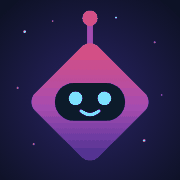
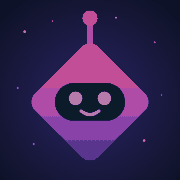
Tým: založení s kódem, připojení se souhlasem, přehled postupu členů
- Stránka Tým (v menu Opora a karta na úvodu). Kdo tým založí, dostane
  šestiznakový kód a pošle ho kolegům; kdo se připojí, souhlasí se
  sdílením souhrnu: role, hodnost, XP, postup, kde je, série, poslední
  aktivita. Odpovědi, kliknutí ani zpětná vazba se nesdílejí.
- Přehled: počet lidí, průměrný postup, kolik dokončilo, aktivní za
  7 dní, upozornění na lidi bez aktivity přes 3 dny, tabulka členů.
- Zakladatel může člena odebrat nebo tým zrušit, člen může tým opustit.
- Souhrn se aktualizuje s ukládáním pokroku. Databáze tymy/<zakladatel>
  a clenove/<člověk>; jména se neukládají, berou se z profilu.
- Ikona 180 px zmenšená (paleta 40 barev), aby stránka zůstala
  v rozpočtu 700 kB.
- Testy: scénář týmu (17 kontrol), audit přístupnosti stránky Tým.
- TODO: na vlastním serveru omezit čtení souhrnů jen na členy týmu.

Claude-Session: https://claude.ai/code/session_011w8DYAdrGVi6rSn6aB8qZr

diff --git a/web/track.js b/web/track.js
@@ -138,6 +138,7 @@ async function tInitRun(){
     T.perf.size = document.documentElement.outerHTML.length;
   } catch (e) {}
   TRK.doc = T; TRK.ok = true; TRK.dirty = true;
+  tmLoad();
   trk('návštěva', T.dev.mobile ? 'mobil' : 'počítač');
   trackView(); await tFlush();
   if (!TRK.timer) TRK.timer = setInterval(tFlush, 20000);
@@ -850,6 +851,7 @@ async function pPush(){
   try { await PROG.ref.set({v:1, at:Date.now(), state:JSON.parse(JSON.stringify(S))}); }
   catch (e) { if (e && (e.code === 'revoked' || e.code === 'invalid_argument' || e.code === 'not_granted')) PROG.ref = null; else PROG.h = setTimeout(pPush, 15000); }
   PROG.busy = false;
+  try { tmPush(); } catch (e) {}
 }
 document.addEventListener('visibilitychange', () => { if (document.hidden && PROG.h) pPush(); });
 
@@ -897,3 +899,115 @@ async function netBack(){
 window.addEventListener('offline', () => { NET.lost = true; netPill(); try { trk('připojení', 'offline'); } catch (e) {} toast('Jste offline. Můžete pokračovat, pokrok se ukládá v zařízení.'); });
 window.addEventListener('online', () => { netBack(); });
 setTimeout(netPill, 0);
+
+/* ---------- tým: společné učení a přehled o postupu kolegů ----------
+   Kdo tým založí, dostane kód a pošle ho kolegům (třeba v Teams). Kdo se kódem připojí, souhlasí, že členové týmu
+   uvidí jeho souhrn: roli, hodnost, XP, postup, kde je a kdy byl naposledy aktivní. Nic dalšího (odpovědi, kliknutí) se nesdílí.
+   Databáze: tymy/<zakladatel> {name, code, removed[]} a clenove/<člověk> {team, souhrn}. Zakladatel může člena odebrat
+   (zapíše ho do removed) nebo tým zrušit; každý může tým kdykoli opustit. Jména se neukládají, zobrazují se z profilu. */
+const TEAM = {ready:false, my:null, team:null, members:[], names:{}, err:'', busy:false, kicked:false, draft:{}};
+const tmCode = () => { const A = 'ABCDEFGHJKLMNPQRSTUVWXYZ23456789'; const r = crypto.getRandomValues(new Uint8Array(6)); return Array.from(r, x => A[x % A.length]).join(''); };
+function tmSummary(){ const r = rank(), n = nextOnPath(); return {role:S.role || null, xp:S.xp || 0, rank:r.name, lvl:r.lvl, pct:overall(), mod:n ? n.id : null, streak:streak(), last:Date.now(), express:!!S.express, done:pathDone()}; }
+async function tmLoad(){
+  if (!TRK.db || !TRK.uid) return; TEAM.fresh = Date.now();
+  try {
+    const s = await TRK.db.doc('clenove/' + TRK.uid).get(); TEAM.my = s.exists ? JSON.parse(JSON.stringify(s.data())) : null; TEAM.team = null; TEAM.members = []; TEAM.kicked = false;
+    if (TEAM.my && TEAM.my.team) {
+      const t = await TRK.db.doc('tymy/' + TEAM.my.team).get();
+      const tm = t.exists ? Object.assign({id:TEAM.my.team}, t.data()) : null;
+      if (!tm || (tm.removed || []).includes(TRK.uid)) { TEAM.kicked = tm ? 'odebrán' : 'zrušen'; TEAM.my.team = null; await TRK.db.doc('clenove/' + TRK.uid).set(TEAM.my); }
+      else { TEAM.team = tm; await tmMembers(); }
+    }
+    TEAM.err = '';
+  } catch (e) { TEAM.err = navigator.onLine ? 'Tým se nepodařilo načíst. Zkuste to za chvíli.' : 'Jste offline. Tým se načte po připojení.'; }
+  TEAM.ready = true; if (view.name === 'tym' || view.name === 'home') render();
+}
+async function tmMembers(){
+  const q = await TRK.db.collection('clenove').where('team', '==', TEAM.team.id).get(), rm = TEAM.team.removed || [];
+  TEAM.members = q.docs.map(d => Object.assign({id:d.id}, d.data())).filter(m => !rm.includes(m.id));
+  try { const ps = await TRK.user.profiles(TEAM.members.map(m => m.id)); TEAM.names = {}; Object.keys(ps || {}).forEach(k => { TEAM.names[k] = (ps[k] && ps[k].name) || ''; }); } catch (e) {}
+}
+async function tmPush(){
+  if (!TEAM.my || !TEAM.my.team || !TRK.db || !TRK.uid) return;
+  try { TEAM.my = Object.assign(TEAM.my, tmSummary()); await TRK.db.doc('clenove/' + TRK.uid).set(JSON.parse(JSON.stringify(TEAM.my))); } catch (e) {}
+}
+async function tmAct(a, arg){
+  if (TEAM.busy || !TRK.db || !TRK.uid) return; TEAM.busy = true; TEAM.err = '';
+  const fail = m => { const x = new Error(m); x.v = true; throw x; };
+  try {
+    if (a === 'create') {
+      const name = String(arg || '').trim().slice(0, 60); if (!name) fail('Napište název týmu.');
+      const team = {name, code:tmCode(), removed:[], at:Date.now()};
+      await TRK.db.doc('tymy/' + TRK.uid).set(team);
+      TEAM.my = Object.assign({}, tmSummary(), {team:TRK.uid}); await TRK.db.doc('clenove/' + TRK.uid).set(TEAM.my);
+      try { trk('tým', 'založen'); } catch (e) {}
+    } else if (a === 'join') {
+      const code = String(arg || '').trim().toUpperCase().replace(/[^A-Z0-9]/g, '');
+      if (code.length !== 6) fail('Kód týmu má 6 znaků.');
+      const q = await TRK.db.collection('tymy').where('code', '==', code).limit(1).get();
+      if (!q.docs.length) fail('Tým s tímhle kódem neexistuje. Zkontrolujte ho u kolegy, který tým založil.');
+      const d = q.docs[0];
+      if ((d.data().removed || []).includes(TRK.uid)) fail('Z tohoto týmu vás zakladatel odebral.');
+      TEAM.my = Object.assign({}, tmSummary(), {team:d.id}); await TRK.db.doc('clenove/' + TRK.uid).set(TEAM.my);
+      try { trk('tým', 'připojen'); } catch (e) {}
+    } else if (a === 'leave' || a === 'dissolve') {
+      if (a === 'dissolve' && TEAM.team && TEAM.team.id === TRK.uid) await TRK.db.doc('tymy/' + TRK.uid).delete();
+      TEAM.my = Object.assign({}, TEAM.my || {}, {team:null}); await TRK.db.doc('clenove/' + TRK.uid).set(TEAM.my);
+      try { trk('tým', a === 'leave' ? 'opuštěn' : 'zrušen'); } catch (e) {}
+    } else if (a === 'remove' && TEAM.team && TEAM.team.id === TRK.uid && arg && arg !== TRK.uid) {
+      const removed = Array.from(new Set((TEAM.team.removed || []).concat([arg])));
+      await TRK.db.doc('tymy/' + TRK.uid).update({removed});
+    }
+  } catch (e) {
+    TEAM.busy = false;
+    if (e && e.v) { TEAM.err = e.message; renderTeam(); return; }
+    TEAM.err = navigator.onLine ? 'Nepodařilo se to uložit. Zkuste to znovu.' : 'Jste offline. Tým jde upravit po připojení.';
+  }
+  TEAM.busy = false;
+  const err = TEAM.err; await tmLoad(); if (err) { TEAM.err = err; if (view.name === 'tym') renderTeam(); }
+}
+const tmAgo = t => { if (!t) return '—'; const d = Math.floor((Date.now() - t) / 864e5); return d <= 0 ? 'dnes' : d === 1 ? 'včera' : 'před ' + d + ' dny'; };
+function teamCard(){
+  if (!S.role || !TRK.ok) return '';
+  if (TEAM.team) { const m = TEAM.members, avg = m.length ? Math.round(m.reduce((n, x) => n + (x.pct || 0), 0) / m.length) : 0;
+    return `<section class="tmc"><div><span class="eyebrow">Váš tým</span><h3>${esc(TEAM.team.name)}</h3><p class="muted">${m.length} ${m.length === 1 ? 'člověk' : m.length < 5 ? 'lidé' : 'lidí'} · průměrně ${avg} % cesty</p></div><button class="btn" type="button" data-go="tym">Otevřít tým →</button></section>`; }
+  return `<section class="tmc"><div><span class="eyebrow">Učte se s týmem</span><h3>Vidíte, kde jsou kolegové</h3><p class="muted">Založte tým nebo se připojte kódem od kolegy.</p></div><button class="btn" type="button" data-go="tym">Tým →</button></section>`;
+}
+function renderTeam(){
+  const lead = TEAM.team && TEAM.team.id === TRK.uid, W2 = id => { const w = W.find(x => x.id === id); return w ? (w.role ? w.title : w.lab + ' · ' + w.title) : 'Hotovo'; };
+  let body;
+  if (!TRK.ok || !TEAM.ready) body = `<p class="tm-note">${TRK.ok ? 'Načítám tým…' : 'Tým funguje, když jste přihlášení a online. Pokrok se mezitím ukládá v zařízení.'}</p>`;
+  else if (!TEAM.team) body = `${TEAM.kicked ? `<p class="tm-note">Tým, ve kterém jste byli, ${TEAM.kicked === 'zrušen' ? 'jeho zakladatel zrušil' : 'vás odebral'}. Můžete založit nový nebo se připojit k jinému.</p>` : ''}
+    <div class="tm-two">
+      <form class="tm-box" data-tmform="create"><h2>Založit tým</h2><p class="muted">Dostanete kód, který pošlete kolegům.</p><label for="tm-name">Název týmu</label><input id="tm-name" maxlength="60" placeholder="Např. Tribe Platby" autocomplete="off" value="${esc(TEAM.draft.name || '')}"><button class="btn primary" type="submit">Založit tým</button></form>
+      <form class="tm-box" data-tmform="join"><h2>Připojit se kódem</h2><p class="muted">Kód vám pošle kolega, který tým založil.</p><label for="tm-code">Kód týmu</label><input id="tm-code" maxlength="8" placeholder="Např. K7M2QX" autocomplete="off" autocapitalize="characters" value="${esc(TEAM.draft.code || '')}"><label class="tm-ok"><input type="checkbox" id="tm-agree"> Souhlasím, že členové týmu uvidí můj souhrn: roli, hodnost, XP, postup cestou a kdy jsem byl(a) naposledy aktivní.</label><button class="btn primary" type="submit">Připojit se</button></form>
+    </div>`;
+  else { const m = TEAM.members.slice().sort((a, b) => (b.pct || 0) - (a.pct || 0) || (b.xp || 0) - (a.xp || 0)), now = Date.now();
+    const avg = m.length ? Math.round(m.reduce((n, x) => n + (x.pct || 0), 0) / m.length) : 0, done = m.filter(x => x.done).length, act = m.filter(x => now - (x.last || 0) < 7 * 864e5).length, stuck = m.filter(x => !x.done && now - (x.last || 0) > 3 * 864e5);
+    body = `<div class="tm-head"><div><span class="eyebrow">${lead ? 'Zakládali jste' : 'Jste členem'}</span><h2>${esc(TEAM.team.name)}</h2></div>${lead ? `<div class="tm-code"><span>Kód pro kolegy</span><b id="tm-code-v">${esc(TEAM.team.code)}</b><button class="btn sm" type="button" data-tm="copy">Zkopírovat</button></div>` : ''}</div>
+    ${lead ? '<p class="muted">Pošlete kód kolegům, třeba v Teams. V aplikaci ho zadají na stránce Tým.</p>' : ''}
+    <div class="tm-kpi"><div><b>${m.length}</b><span>${m.length === 1 ? 'člověk' : m.length < 5 ? 'lidé' : 'lidí'} v týmu</span></div><div><b>${avg} %</b><span>průměrný postup</span></div><div><b>${done}</b><span>dokončilo cestu</span></div><div><b>${act}</b><span>aktivních za 7 dní</span></div></div>
+    ${stuck.length ? `<p class="tm-stuck"><b>Bez aktivity přes 3 dny:</b> ${stuck.map(x => esc(x.id === TRK.uid ? 'vy' : TEAM.names[x.id] || 'kolega')).join(', ')}. Možná se zasekli, zkuste se jich zeptat.</p>` : ''}
+    <div class="tw" tabindex="0" role="region" aria-label="Postup členů týmu"><table class="tm-t"><thead><tr><th>Člověk</th><th>Role</th><th>Hodnost</th><th>Postup</th><th>Právě</th><th>Série</th><th>Naposledy</th>${lead ? '<th></th>' : ''}</tr></thead><tbody>
+    ${m.map(x => `<tr class="${x.id === TRK.uid ? 'me' : ''}"><td><b>${esc(x.id === TRK.uid ? 'Vy' : TEAM.names[x.id] || 'Kolega')}</b>${x.id === TEAM.team.id ? ' <small class="muted">zakladatel</small>' : ''}</td><td>${esc(x.role ? ROLE_SHORT[x.role] || x.role : '—')}</td><td>${esc(x.rank || '—')} <small class="muted">${x.xp || 0} XP</small></td><td><span class="tm-bar"><span class="bar"><i style="width:${x.pct || 0}%"></i></span><span class="num">${x.pct || 0} %</span></span></td><td>${x.done ? '✓ Hotovo' : esc(W2(x.mod))}${x.express ? ' <small class="muted">expres</small>' : ''}</td><td>${x.streak ? '🔥 ' + x.streak : '—'}</td><td>${tmAgo(x.last)}</td>${lead ? `<td>${x.id !== TRK.uid ? `<button class="linkbtn" type="button" data-tm="remove:${esc(x.id)}">Odebrat</button>` : ''}</td>` : ''}</tr>`).join('')}
+    </tbody></table></div>
+    <div class="tm-foot"><button class="btn" type="button" data-tm="reload">Obnovit</button>${lead ? '<button class="btn" type="button" data-tm="dissolve">Zrušit tým</button>' : '<button class="btn" type="button" data-tm="leave">Opustit tým</button>'}</div>
+    <p class="muted tm-priv">Členové vidí jen tenhle souhrn. Odpovědi, kliknutí ani zpětná vazba se nesdílejí.</p>`; }
+  app.innerHTML = shell('tym', `<div class="mh c-indigo"><span class="eyebrow">Učte se společně</span><h1>Tým</h1><p class="goal">Vidíte, kde jsou kolegové, kdo je napřed a kdo se možná zasekl.</p></div>${TEAM.err ? `<p class="tm-err" role="alert">${esc(TEAM.err)}</p>` : ''}${body}`);
+}
+document.addEventListener('submit', e => {
+  const f = e.target.closest('[data-tmform]'); if (!f) return; e.preventDefault();
+  /* rozepsané hodnoty přežijí překreslení po chybě */
+  TEAM.draft = {name:(f.querySelector('#tm-name') || {}).value || TEAM.draft.name || '', code:(f.querySelector('#tm-code') || {}).value || TEAM.draft.code || ''};
+  if (f.dataset.tmform === 'create') tmAct('create', f.querySelector('#tm-name').value);
+  else { if (!f.querySelector('#tm-agree').checked) { TEAM.err = 'Pro připojení potvrďte souhlas se sdílením souhrnu.'; renderTeam(); return; } tmAct('join', f.querySelector('#tm-code').value); }
+});
+document.addEventListener('click', e => {
+  /* po otevření stránky Tým se přehled načte znovu, ať je postup kolegů aktuální */
+  if (e.target.closest('[data-go=tym]') && TRK.ok && !TEAM.busy) setTimeout(tmLoad, 0);
+  const b = e.target.closest('[data-tm]'); if (!b) return; const [a, arg] = b.dataset.tm.split(':');
+  if (a === 'copy') { try { navigator.clipboard.writeText(TEAM.team.code); toast('Kód týmu je ve schránce.'); } catch (err) {} return; }
+  if (a === 'reload') { tmLoad(); return; }
+  if ((a === 'leave' || a === 'dissolve' || a === 'remove') && !confirm(a === 'leave' ? 'Opustit tým?' : a === 'dissolve' ? 'Zrušit tým? Členové ho přestanou vidět.' : 'Odebrat člověka z týmu?')) return;
+  tmAct(a, arg);
+});

diff --git a/nastroje/e2e/scenare.js b/nastroje/e2e/scenare.js
@@ -105,6 +105,47 @@ for(const [name,w,h,scheme] of [['tablet',768,1024,'light'],['tablet na šířku
   await ctx.close();
  }));
 }
+// 12) tým: založení, kód, přehled členů, odebrání, zrušení; připojení kódem k jinému týmu
+runs.push(scenario('tým',async()=>{
+ const ctx=await b.newContext({viewport:{width:1280,height:900}});const p=await ctx.newPage();CUR=p;const errs=[];p.on('pageerror',e=>errs.push(e.message));p.on('dialog',d=>d.accept());
+ await p.goto(F);await p.waitForSelector('.startb [data-role]');await p.locator('.startb [data-role=pm]').click();await settle(p,300);
+ ok('tým: na úvodu je karta Učte se s týmem', await p.locator('.tmc [data-go=tym]').count()===1);
+ await p.evaluate(()=>document.querySelector('[data-go=tym]').click());await settle(p,100);
+ ok('tým: bez týmu jde tým založit nebo se připojit kódem', await p.locator('[data-tmform=create]').count()===1&&await p.locator('[data-tmform=join]').count()===1);
+ await p.locator('[data-tmform=create] button').click();await settle(p,200);
+ ok('tým: bez názvu se tým nezaloží a ukáže se proč', await p.evaluate(()=>!window.__db['tymy/u_ja'])&&/název/i.test(await p.locator('.tm-err').innerText()));
+ await p.fill('#tm-name','Tribe Platby');await p.locator('[data-tmform=create] button').click();await p.waitForSelector('#tm-code-v');
+ const code=await p.locator('#tm-code-v').innerText();
+ ok('tým: po založení je vidět šestiznakový kód a zakladatel je v týmu', /^[A-Z0-9]{6}$/.test(code)&&await p.evaluate(()=>window.__db['clenove/u_ja'].team==='u_ja'), code);
+ await p.evaluate(()=>{window.__db['clenove/u_kolega']={team:'u_ja',role:'pd',xp:320,rank:'Praktik',lvl:3,pct:41,mod:'pd',streak:4,last:Date.now()-864e5,done:false};window.__db['clenove/u_novak']={team:'u_ja',role:'se',xp:60,rank:'Nováček',lvl:1,pct:6,mod:'l0',streak:0,last:Date.now()-5*864e5,done:false};window.__db['clenove/u_cizi']={team:'u_jiny',pct:90};});
+ await p.locator('[data-tm=reload]').click();await settle(p,300);
+ ok('tým: přehled ukáže jen členy tohoto týmu se jmény, postupem a poslední aktivitou', await p.locator('.tm-t tbody tr').count()===3&&(await p.locator('.tm-t').innerText()).includes('Kolega Testovací')&&(await p.locator('.tm-t').innerText()).includes('41 %'));
+ ok('tým: upozorní na lidi bez aktivity přes 3 dny', await p.locator('.tm-stuck').count()===1);
+ ok('tým: souhrnná čísla týmu (lidé, průměr, hotovo, aktivní)', (await p.locator('.tm-kpi').innerText()).includes('3'));
+ await p.locator('[data-tm="remove:u_novak"]').click();await settle(p,300);
+ ok('tým: zakladatel může člověka odebrat', await p.locator('.tm-t tbody tr').count()===2&&await p.evaluate(()=>window.__db['tymy/u_ja'].removed.includes('u_novak')));
+ await p.evaluate(()=>{window.__S=JSON.parse(localStorage.getItem('spock-user-onboarding-v1'));__kviz.state(S=>{S.xp=S.xp+40;});});await p.waitForTimeout(2600);
+ ok('tým: změna postupu se propíše do souhrnu v týmu', await p.evaluate(()=>window.__db['clenove/u_ja'].xp>=50), await p.evaluate(()=>window.__db['clenove/u_ja'].xp));
+ await p.locator('[data-tm=dissolve]').click();await settle(p,300);
+ ok('tým: zakladatel může tým zrušit', await p.evaluate(()=>!window.__db['tymy/u_ja']&&window.__db['clenove/u_ja'].team===null)&&await p.locator('[data-tmform=join]').count()===1);
+ await p.evaluate(()=>{window.__db['tymy/u_jiny']={name:'Jiný tým',code:'K7M2QX',removed:[]};});
+ await p.fill('#tm-code','ZZZZZZ');await p.locator('#tm-agree').check();await p.locator('[data-tmform=join] button').click();await settle(p,300);
+ ok('tým: neexistující kód vysvětlí, co dělat', /neexistuje/.test(await p.locator('.tm-err').innerText()));
+ await p.fill('#tm-code','k7m2qx');await p.locator('#tm-agree').uncheck();await p.locator('[data-tmform=join] button').click();await settle(p,150);
+ ok('tým: bez souhlasu se sdílením souhrnu se nepřipojí', /souhlas/.test(await p.locator('.tm-err').innerText())&&await p.evaluate(()=>window.__db['clenove/u_ja'].team===null));
+ await p.locator('#tm-agree').check();await p.locator('[data-tmform=join] button').click();await settle(p,300);
+ ok('tým: s kódem (i malými písmeny) a souhlasem se připojí k cizímu týmu', await p.evaluate(()=>window.__db['clenove/u_ja'].team==='u_jiny')&&(await p.locator('.tm-head').innerText()).includes('Jiný tým')&&await p.locator('#tm-code-v').count()===0);
+ await p.locator('[data-tm=leave]').click();await settle(p,300);
+ ok('tým: člen může tým opustit', await p.evaluate(()=>window.__db['clenove/u_ja'].team===null));
+ ok('tým: bez chyb v konzoli', errs.length===0, errs.slice(0,2).join(' | '));
+ await ctx.close();
+ const m=await b.newContext({viewport:{width:390,height:844},isMobile:true,hasTouch:true});const q=await m.newPage();
+ await q.goto(F);await q.waitForSelector('.startb [data-role]');await q.locator('.startb [data-role=pm]').click();await settle(q,300);
+ await q.evaluate(()=>{window.__db['tymy/u_ja']={name:'Tribe Platby s dlouhým názvem týmu',code:'ABC234',removed:[]};window.__db['clenove/u_ja']={team:'u_ja',pct:0};window.__db['clenove/u_kolega']={team:'u_ja',role:'pd',xp:320,rank:'Praktik',pct:41,mod:'pd',streak:4,last:Date.now()};});
+ await q.evaluate(()=>document.querySelector('[data-go=tym]').click());await q.waitForSelector('.tm-t tbody tr',{timeout:5000}).catch(()=>{});await settle(q,200);
+ ok('tým, mobil: stránka nepřetéká do strany a tabulka se dá posouvat', await q.evaluate(()=>document.documentElement.scrollWidth-innerWidth)<=0&&await q.locator('.tm-t tbody tr').count()===2);
+ await m.close();
+}));
 // 11) uvítání při prvním otevření: video Onboarding do SPOCKu za necelé dvě minuty
 runs.push(scenario('uvítání',async()=>{
  for(const [W,H,dev] of [[1280,900,'počítač'],[390,844,'mobil']]){

diff --git a/nastroje/e2e/fixture.js b/nastroje/e2e/fixture.js
@@ -2,7 +2,7 @@
 // Nic se neodesílá ven. window.__E2E zapne v aplikaci testovací háčky (window.__kviz).
 const stub=`<script>window.__E2E=true;window.__sent=[];window.__db={'track/u_novak':(function(){var t=Date.now()-3e8,e=[],v=function(d,ty,k){t+=d;e.push([t,ty,k])};v(0,'návštěva','mobil');v(1e3,'view','home');v(4e4,'view','l0/0.1');v(9e4,'karta','l0.0.0 špatně');v(6e4,'karta','l0.0.1 správně');v(4e4,'view','map');v(2e4,'view','l0/0.1');v(2e4,'view','map');v(1.5e4,'view','l0/0.1');v(3e5,'view','l0/0.2');v(1e3,'klik','modul l1');v(500,'zamčeno','l1');v(400,'opakovaný klik','modul l1');v(2e4,'view','l0/0.2');t+=4e6;v(0,'návštěva','mobil');v(1e3,'view','home');v(3e4,'view','l0/0.2');v(5e4,'karta','l0.1.0 špatně');v(4e4,'karta','l0.1.1 špatně');return {v:1,first:Date.now()-3e8,last:t,visits:{},secs:{},dev:{mobile:true},role:'pd',prog:{xp:40,pct:5,loc:'l0/0.2',mods:{}},ses:[],ev:e,pv:{},tm:{},clicks:{},locked:{l1:1},quiz:{},perf:{load:[],fcp:[],render:[],errs:[]},spock:{n:0,tin:0,tout:0,ms:[],err:0}}})(),'track/u_kolega':{v:1,first:Date.now()-9e8,last:Date.now()-5e8,visits:{'2026-11-01':2},secs:{'2026-11-01':900},dev:{mobile:true,w:390,h:844},role:'pm',prog:{xp:120,pct:12,loc:'l0/0.2',mods:{l0:[9,31,1,4,0,9,22]}},pv:{'l0/0.1':3,'l0/0.2':2},tm:{'l0/0.1':600},clicks:{'modul l0':2,'modul l3':1},locked:{l3:1},quiz:{},wrong:['l0.0.1','l0.1.0'],perf:{load:[820],fcp:[640],render:[12],size:480000,errs:[]},spock:{n:2,tin:30000,tout:400,ms:[2100,3400],err:0},ses:[[Date.now()-5e8,Date.now()-5e8+7.2e5,600],[Date.now()-6e8,Date.now()-6e8+3e5,300]],ev:[[Date.now()-5e8,'view','l0/0.2']]},'feedback/u_kolega':{items:[{id:'f1',at:Date.now()-5e8,loc:'l0/0.2',where:'Poznejte SPOCK › 0.2',kind:'nejasne',text:'Nerozumím rozdílu Q a G brány.',fix:'Přidat příklad.',role:'pm'}]}};
 const __off=()=>{if(!navigator.onLine){const e=new Error('offline');e.code='unavailable';throw e;}};
-const __fdb={doc:p=>({id:p.split('/').pop(),path:p,get:async()=>(__off(),{id:p.split('/').pop(),exists:p in window.__db,data:()=>window.__db[p]}),set:async d=>{__off();window.__db[p]=JSON.parse(JSON.stringify(d))}}),collection:p=>{const mk=(f)=>{const q={where:(fld,op,val)=>mk(d=>f(d)&&(op==='>'?d[fld]>val:true)),limit:()=>q,get:async()=>{const docs=Object.keys(window.__db).filter(k=>k.startsWith(p+'/')&&k.slice(p.length+1).indexOf('/')<0&&f(window.__db[k])).map(k=>({id:k.slice(p.length+1),exists:true,data:()=>window.__db[k]}));return {docs,size:docs.length,empty:!docs.length}}};return q};return mk(()=>true)}};
+const __fdb={doc:p=>({id:p.split('/').pop(),path:p,get:async()=>(__off(),{id:p.split('/').pop(),exists:p in window.__db,data:()=>window.__db[p]}),set:async d=>{__off();window.__db[p]=JSON.parse(JSON.stringify(d))},update:async d=>{__off();window.__db[p]=Object.assign({},window.__db[p]||{},JSON.parse(JSON.stringify(d)))},delete:async()=>{__off();delete window.__db[p]}}),collection:p=>{const mk=(f)=>{const q={where:(fld,op,val)=>mk(d=>f(d)&&(op==='>'?d[fld]>val:op==='=='?d[fld]===val:true)),limit:()=>q,get:async()=>{const docs=Object.keys(window.__db).filter(k=>k.startsWith(p+'/')&&k.slice(p.length+1).indexOf('/')<0&&f(window.__db[k])).map(k=>({id:k.slice(p.length+1),exists:true,data:()=>window.__db[k]}));return {docs,size:docs.length,empty:!docs.length}}};return q};return mk(()=>true)}};
 const __fuser={me:async()=>({id:'u_ja',name:'Já',isOwner:true,canEdit:true}),id:async()=>'u_ja',isOwner:async()=>true,profiles:async ids=>Object.fromEntries(ids.map(i=>[i,{id:i,name:i==='u_ja'?'Já Vlastník':'Kolega Testovací'}]))};
 window.claude={use:async n=>{if(n!=='sample')__off();if(n==='db')return __fdb;if(n==='user')return __fuser;if(n!=='sample')return null;const f=async(msgs,o)=>{window.__sent.push(msgs);await new Promise(r=>setTimeout(r,50));return {text:'Task spustíte přes **Command Palette**: Tasks: Run Task.',truncated:false};};f.limits=async()=>({tools:false});return f;}};</script>`;
 

diff --git a/web/app.js b/web/app.js
@@ -1055,7 +1055,7 @@ function homeV4(){
   /* nováček: jedna hlavní akce (nanečisto) v úvodu, pak výběr role a cesta; vysvětlení a opora sbalené níž */
   if (isFirst()) return heroFirst() + startBlock() + pathBlock('Co vás čeká') + `<div class="v4-gap">${introCollapsed()}</div>` + toolsBlock('Opora', true);
   const l1 = W.find(w => w.id === 'l1'), showSvy = l1 && modPct(l1) === 1 && !(S.survey && S.survey.at);
-  return heroStable() + questCard() + (showSvy ? surveyCard(true) : '') + pathBlock() + `<div class="v4-gap">${introCollapsed()}</div>` + `<div class="sec-h"><h2>Profil a odznaky</h2>${isFirst() ? '<p>Za každý úkol, lekci a kvíz získáte XP. První odznak dostanete za první splněný úkol.</p>' : ''}</div>` + profileCard(true) + toolsBlock();
+  return heroStable() + questCard() + teamCard() + (showSvy ? surveyCard(true) : '') + pathBlock() + `<div class="v4-gap">${introCollapsed()}</div>` + `<div class="sec-h"><h2>Profil a odznaky</h2>${isFirst() ? '<p>Za každý úkol, lekci a kvíz získáte XP. První odznak dostanete za první splněný úkol.</p>' : ''}</div>` + profileCard(true) + toolsBlock();
 }
 function renderHome(){ app.innerHTML = homeV4(); }
 document.addEventListener('click', e => {
@@ -1355,7 +1355,7 @@ function shell(active, body){
   }).join('');
   const gw = W.find(w => w.id === 'l1b');
   const guide = gw ? `<button type="button" class="${active===gw.id?'on':''} c-${gw.c}" data-week="${gw.id}"><span class="dm"></span>Příručka: ${esc(gw.title)}</button>` + sideLessons(gw, active) : '';
-  const ex = [['badges','Odznaky a profil','indigo'],['map','SPOCK v kostce','blue'],['diag','Diagnostika','purple'],['gloss','Slovníček','blue'],['cheat','Tahák tasků','blue'],['ready','Připravenost','indigo']]
+  const ex = [['tym','Tým','indigo'],['badges','Odznaky a profil','indigo'],['map','SPOCK v kostce','blue'],['diag','Diagnostika','purple'],['gloss','Slovníček','blue'],['cheat','Tahák tasků','blue'],['ready','Připravenost','indigo']]
     .concat(TRK.owner ? [['dash','Dashboard (jen vy)','indigo']] : [])
     .map(x => `<button type="button" class="${active===x[0]?'on':''} c-${x[2]}" data-go="${x[0]}"><span class="dm"></span>${x[1]}</button>`).join('');
   return `<div class="ed"><nav class="rail" aria-label="Navigace">${railPathD(active) + `<div class="rail-more">${otherRoles(active)}<span class="grp">Opora</span>${guide}${ex}</div>`}</nav><section class="main">${body}</section></div>`;
@@ -1376,6 +1376,7 @@ function render(){
   else if (view.name === 'ready') renderReady();
   else if (view.name === 'cheat') renderCheat();
   else if (view.name === 'badges') renderBadges();
+  else if (view.name === 'tym') renderTeam();
   updatePills();
   /* poslední místo pro „Pokračovat tam, kde jste skončil(a)“ */
   if (view.name === 'week' && typeof view.lesson === 'number' && (!S.pos || S.pos.w !== view.week || S.pos.l !== view.lesson)) { S.pos = {w:view.week, l:view.lesson}; save(); }

diff --git a/web/sim.css b/web/sim.css
@@ -464,3 +464,19 @@ button,a,summary,[role=button]{-webkit-tap-highlight-color:color-mix(in srgb,var
 .wl-foot{display:flex;gap:10px;flex-wrap:wrap}
 @media (max-width:600px){.wl-in{padding:14px}.wl-foot .btn{width:100%;justify-content:center}.wl-logo{width:40px;height:40px}}
 .wl-logo{width:52px;height:52px;flex:none}
+/* tým */
+.tmc{display:flex;align-items:center;justify-content:space-between;gap:12px 18px;flex-wrap:wrap;border:1px solid var(--line);border-radius:14px;background:var(--surface);padding:14px 18px;margin:16px 0}
+.tmc h3{margin:2px 0}.tmc p{margin:0;font-size:14px}
+.tm-two{display:grid;grid-template-columns:repeat(2,minmax(0,1fr));gap:14px}
+.tm-box{display:grid;gap:8px;align-content:start;border:1px solid var(--line);border-radius:14px;background:var(--surface);padding:16px 18px}.tm-box h2{margin:0;font-size:20px}.tm-box p{margin:0}
+.tm-box input[type=text],.tm-box input:not([type]){font:inherit;font-size:16px;padding:10px 12px;border:1px solid var(--line);border-radius:10px;background:var(--bg);color:var(--ink)}
+.tm-box label{font-size:14px;font-weight:600}.tm-ok{display:flex;gap:8px;align-items:flex-start;font-weight:400!important;color:var(--ink-2)}.tm-ok input{margin-top:3px;width:18px;height:18px;flex:none}
+.tm-head{display:flex;justify-content:space-between;align-items:flex-end;gap:12px;flex-wrap:wrap;margin-bottom:6px}.tm-head h2{margin:2px 0 0}
+.tm-code{display:flex;align-items:center;gap:10px;border:1px dashed var(--line);border-radius:12px;padding:8px 12px}.tm-code span{font-size:13px;color:var(--ink-2)}.tm-code b{font-size:22px;letter-spacing:.14em;font-variant-numeric:tabular-nums}
+.tm-kpi{display:grid;grid-template-columns:repeat(4,minmax(0,1fr));gap:10px;margin:14px 0}.tm-kpi div{border:1px solid var(--line);border-radius:12px;background:var(--surface);padding:10px 12px;display:grid}.tm-kpi b{font-size:22px}.tm-kpi span{font-size:13px;color:var(--ink-2)}
+.tm-stuck{background:var(--surface-2);border-radius:10px;padding:10px 12px;font-size:14px}
+.tm-t tr.me td{background:color-mix(in srgb,var(--blue-2) 8%,transparent)}
+.tm-bar{display:flex;align-items:center;gap:8px;min-width:120px}.tm-bar .bar{flex:1}.tm-bar .num{font-size:13px;font-weight:700}
+.tm-foot{display:flex;gap:10px;flex-wrap:wrap;margin-top:12px}.tm-priv{font-size:13px;margin-top:8px}
+.tm-err{background:var(--surface-2);border-left:4px solid var(--pink);border-radius:10px;padding:10px 12px}.tm-note{color:var(--ink-2)}
+@media (max-width:700px){.tm-two{grid-template-columns:1fr}.tm-kpi{grid-template-columns:repeat(2,minmax(0,1fr))}}

diff --git a/nastroje/e2e/pristupnost.js b/nastroje/e2e/pristupnost.js
@@ -9,7 +9,7 @@ const {buildE2E,browserType}=require('./fixture');const fs=require('fs');const p
 const ROOT=path.resolve(__dirname,'..','..');const DIST=path.join(ROOT,'web','dist');const F='file://'+path.join(DIST,'spock-user-onboarding.html');
 let AXE;try{AXE=fs.readFileSync(require.resolve('axe-core/axe.min.js'),'utf8');}catch(e){console.error('Chybí axe-core. Spusťte: npm install --no-save axe-core@4.10.2');process.exit(1);}
 const R=[];const ok=(n,c,d='')=>R.push([c?'PASS':'FAIL',n,d]);
-const VIEWS=['home','expres','lesson','badges','map','diag','gloss','cheat','ready'];
+const VIEWS=['home','expres','lesson','badges','map','diag','gloss','cheat','ready','tym'];
 const open=(p,v)=>p.evaluate(v=>{if(v==='home')document.querySelector('#home-btn').click();else if(v==='expres'){document.querySelector('[data-express=on]').click();const d=document.querySelector('.exall');if(d)d.open=true;}else if(v==='lesson')document.querySelector('[data-week=l0]').click();else{const e=document.querySelector('[data-go='+v+']');e&&e.click();}},v);
 (async()=>{buildE2E();const FX='file://'+path.join(DIST,'e2e.html');const b=await browserType().launch();
 for(const [dev,w,h] of [['mobil',390,844],['počítač',1280,850]]){

diff --git a/ARCHITEKTURA.md b/ARCHITEKTURA.md
@@ -42,7 +42,7 @@ Web se po sloučení změny **sám nepublikuje**. Postup je ve [web/README.md](w
 | Vrstva | K čemu | Soubory |
 |---|---|---|
 | **Obsah** | Co se učí. Mění se nejčastěji. | `materialy/bootcamp/`: zdrojová PDF z bootcampu; `onboarding/*.md`: úrovně 0–3 pro všechny, modul role na úrovni 2 (PM, PD, SWE, GM), úroveň 4 Superuser jen pro Guild Mastery a volitelná příručka Fáze do hloubky; lekce jako krátké karty s otázkou, úkoly se štítkem, kde se dělají; tahák, slovník, diagnostika, zásady, připravenost; `POKROK.md` pro průvodce v Claude Code |
-| **Aplikace** | Jak se to ukazuje. | `web/parse.py` čte lekce, `web/build.py` skládá jednu stránku (styly i JavaScript bez komentářů, písmo až po vykreslení, zprávy z testů pro dashboard). `app.js`: lekce, kvízy a skokový test, **expresní cesta** (`EXPRESS`: sedm kroků za zhruba 1 h 40 min, odznak Expres; po výběru role rozcestí v banneru, pak banner vede jen dalším krokem), chat se Spockem, **hra** (XP, hodnosti s odměnami, vzhledy Spocka, denní výzvy, zmrazení série, odznaky), **vesmírná cesta** (mapa světů a překážek, postavička, minihry, shrnutí úrovně, šatna a příběh s oslavou v cíli), zvuk a mluvený komentář. `sim.js`: simulace SPOCK nanečisto, vysvětlivky pojmů, dotazník. `track.js`: měření průchodu, zpětná vazba, dashboard vlastníka, **offline režim** (štítek Offline, fronta zpětné vazby v zařízení, po připojení znovu připojení k účtu a odeslání pokroku). `nastroje/video/`: výroba videí. `*.css`, `media/`. Návod v [web/README.md](web/README.md) |
+| **Aplikace** | Jak se to ukazuje. | `web/parse.py` čte lekce, `web/build.py` skládá jednu stránku (styly i JavaScript bez komentářů, písmo až po vykreslení, zprávy z testů pro dashboard). `app.js`: lekce, kvízy a skokový test, **expresní cesta** (`EXPRESS`: sedm kroků za zhruba 1 h 40 min, odznak Expres; po výběru role rozcestí v banneru, pak banner vede jen dalším krokem), chat se Spockem, **hra** (XP, hodnosti s odměnami, vzhledy Spocka, denní výzvy, zmrazení série, odznaky), **vesmírná cesta** (mapa světů a překážek, postavička, minihry, shrnutí úrovně, šatna a příběh s oslavou v cíli), zvuk a mluvený komentář. `sim.js`: simulace SPOCK nanečisto, vysvětlivky pojmů, dotazník. `track.js`: měření průchodu, zpětná vazba, dashboard vlastníka, **tým** (`tymy/`, `clenove/`: kód týmu, souhrn postupu členů), **offline režim** (štítek Offline, fronta zpětné vazby v zařízení, po připojení znovu připojení k účtu a odeslání pokroku). `nastroje/video/`: výroba videí. `*.css`, `media/`. Návod v [web/README.md](web/README.md) |
 | **Údržba** | Aby tutoriál nezastaral a nerozbil se. | [SPOCK-VERZE.md](SPOCK-VERZE.md): vydání a commit SPOCKu; `nastroje/spock-otisk.json`: otisk všech souborů SPOCKu v této verzi; `nastroje/kontrola-aktualnosti.py`: mechanická kontrola odkazů a změn; **testy webu** v `nastroje/e2e/` (viz níže); `nastroje/generuj-pokrok.py`: přehled pokroku z lekcí; `nastroje/kontrola-struktury.py`: seznam modulů je všude stejný; `nastroje/kontrola-odpovedi.py`: správná odpověď se nedá uhodnout podle délky; `nastroje/generuj-revizi.py`: kontrolní seznam pro odbornou kontrolu (`revize/`); `/spock-aktualnost`: měsíční kontrola v Claude Code |
 | **Průvodci** | Kdo uživateli pomáhá. | `/spock-onboarding`: průvodce v Claude Code, zapisuje pokrok; agent **Spock průvodce** v GitHub Copilotu (`.github/agents/spock-pruvodce.agent.md`), stejná pravidla; Spock na webu: chat, který zná celý modul, ve kterém uživatel je, a přehled ostatních |
 
@@ -53,8 +53,8 @@ Běží na GitHubu při každém pull requestu a po sloučení do `main`. Když 
 | Test | Co hlídá | Kolik kontrol |
 |---|---|---|
 | `nastroje/e2e/journey.js` | Cesta uživatele na počítači i mobilu (souběžně): simulace, role, karty, úkoly s ověřením, kvíz, zámky a skokový test, všech 9 modulů, opora, chat, dashboard a jeho analýzy, hra, vesmírná cesta, minihry, shrnutí, příběh, mluvený komentář, zmrazení série, pokrok v účtu | 219 |
-| `nastroje/e2e/scenare.js` | Offline režim (výpadek za běhu i start bez sítě), výpadek chatu, nedostupná databáze, chybějící právo zápisu, pokrok ze dvou zařízení, ovládání klávesnicí (Tab, Enter, Escape, viditelné zaměření), tablet, tablet na šířku, široký monitor, tmavý režim, platnost videí | 80 |
-| `nastroje/e2e/pristupnost.js` | Průchod za každou roli; WCAG 2 A a AA (axe-core) na osmi stránkách a na úvodu se zapnutou expresní cestou, v dashboardu, simulaci, minihře a příběhu, světlý i tmavý režim; dotykové plochy na mobilu | 89 |
+| `nastroje/e2e/scenare.js` | Offline režim (výpadek za běhu i start bez sítě), výpadek chatu, nedostupná databáze, chybějící právo zápisu, pokrok ze dvou zařízení, ovládání klávesnicí (Tab, Enter, Escape, viditelné zaměření), tablet, tablet na šířku, široký monitor, tmavý režim, platnost videí | 97 |
+| `nastroje/e2e/pristupnost.js` | Průchod za každou roli; WCAG 2 A a AA (axe-core) na osmi stránkách a na úvodu se zapnutou expresní cestou, v dashboardu, simulaci, minihře a příběhu, světlý i tmavý režim; dotykové plochy na mobilu | 94 |
 | `nastroje/e2e/vykon.js` | Rozpočty: velikost stránky (700 kB, po kompresi 230 kB), první vykreslení, vykreslení lekce a opory, procesor po 15 s nečinnosti, počet prvků; dashboard s 500 smyšlenými lidmi | 10 |
 | Safari (WebKit) | `journey.js` v jádru Safari na počítači i mobilu (iPhone, iPad, Mac). Chrome a Edge pokrývá Chromium | 2 × 101 |
 
@@ -96,6 +96,7 @@ S každým sloučeným pull requestem sem přibude řádek: číslo, vrstvy a co
 | PR | Vrstvy | Co se změnilo | Sloučeno |
 |---|---|---|---|
 | [#38](https://github.com/TominoHav/SpockTutorial/pull/38) | Aplikace | Lehčí úvodní stránka: SPOCK nanečisto jen jednou, video v okně, Co je SPOCK sbalené, kratší texty, kompaktní role a opora na mobilu | 15. 11. 2026 |
+| [#66](https://github.com/TominoHav/SpockTutorial/pull/66) | Aplikace | Tým: založení týmu s kódem, připojení kódem se souhlasem se sdílením souhrnu, přehled postupu členů (role, hodnost, XP, postup, kde jsou, série, poslední aktivita), upozornění na lidi bez aktivity, odebrání člena, zrušení a opuštění týmu; databáze `tymy/` a `clenove/` | 17. 11. 2026 |
 | [#65](https://github.com/TominoHav/SpockTutorial/pull/65) | Aplikace | Uvítání: místo dlouhého odstavce krátký podtitulek „Podívejte se, co vás čeká. Necelé 2 minuty.“; křížek viditelný i ve světlém režimu | 17. 11. 2026 |
 | [#64](https://github.com/TominoHav/SpockTutorial/pull/64) | Aplikace, Údržba | Pitch video „Onboarding do SPOCKu za necelé dvě minuty“ (s odměnami ve hře a náznakem finále): uvítání při prvním otevření (jednou, nepouští se samo, Přeskočit) a tlačítka „Co vás čeká“ a „Co je SPOCK“ na úvodní stránce; výroba videa ve dvou verzích (vedení, uživatelé) v `nastroje/video/pitch/` | 17. 11. 2026 |
 | [#63](https://github.com/TominoHav/SpockTutorial/pull/63) | Aplikace | Nadtitulek banneru: místo „PDE“ srozumitelné „Onboarding do SPOCKu“ (logo PDE zůstává) | 17. 11. 2026 |

diff --git a/revize/TODO-VLASTNIK.md b/revize/TODO-VLASTNIK.md
@@ -43,6 +43,7 @@ Dnes web běží na claude.ai: identitu, databázi (pokrok, měření, zpětná 
 - [ ] **Úložiště pokroku.** Jeden záznam na člověka, asi 50 kB. Načíst při otevření, uložit při změně. V kódu je to jedno místo: funkce `pLoad` a `pPush` ve `web/track.js`.
 - [ ] **Úložiště měření a zpětné vazby pro dashboard.** Jeden záznam na člověka (nejvýš asi 20 kB, posledních 300 kroků), zpětná vazba a stav vyřízení. Při 500 lidech asi 10 MB. Dashboard potřebuje načíst všechny záznamy a pak jen změněné (podle času poslední aktivity).
 - [ ] **Chat se Spockem.** Dnes používá Claude přes účet každého uživatele. Na vlastním serveru potřebuje schválený přístup k jazykovému modelu, nebo se vypne.
+- [ ] **Tým a sdílený souhrn postupu.** Členové týmu vidí souhrn kolegů (role, hodnost, XP, postup, poslední aktivita) po souhlasu při připojení. Na claude.ai pravidla databáze neumí omezit čtení jen na členy stejného týmu, souhrny může technicky číst kdokoli s přístupem k aplikaci. Na vlastním serveru omezit čtení na členy týmu a projít s pověřencem pro ochranu osobních údajů.
 - [ ] **Bezpečnost a ochrana osobních údajů.** Měření je jmenovité (kdo, kdy, kam klikal). Projít s bezpečností a pověřencem pro ochranu osobních údajů, doba uchování, kdo vidí dashboard.
 - [ ] **Ikona na ploše telefonu.** Ikona (hlava Spocka na hvězdném nebi) je vložená ve stránce a připravená ve složce `web/ikona/` včetně manifestu. Na claude.ai ikonu při uložení na plochu určuje claude.ai; na vlastním serveru stačí složku nahrát vedle stránky a do hlavičky přidat odkaz na `manifest.webmanifest`.
 - [ ] **Otevření úplně bez sítě.** Dnes funguje offline režim po načtení stránky: lekce, kvízy a hra jdou dál, pokrok se ukládá v zařízení, zpětná vazba čeká ve frontě a vše se odešle po připojení. Aby šla stránka i *otevřít* bez sítě (vlak, letadlo), potřebuje vlastní server s instalací jako aplikace (PWA, service worker, ukládání stránky a videí do zařízení). Na claude.ai to nejde.
